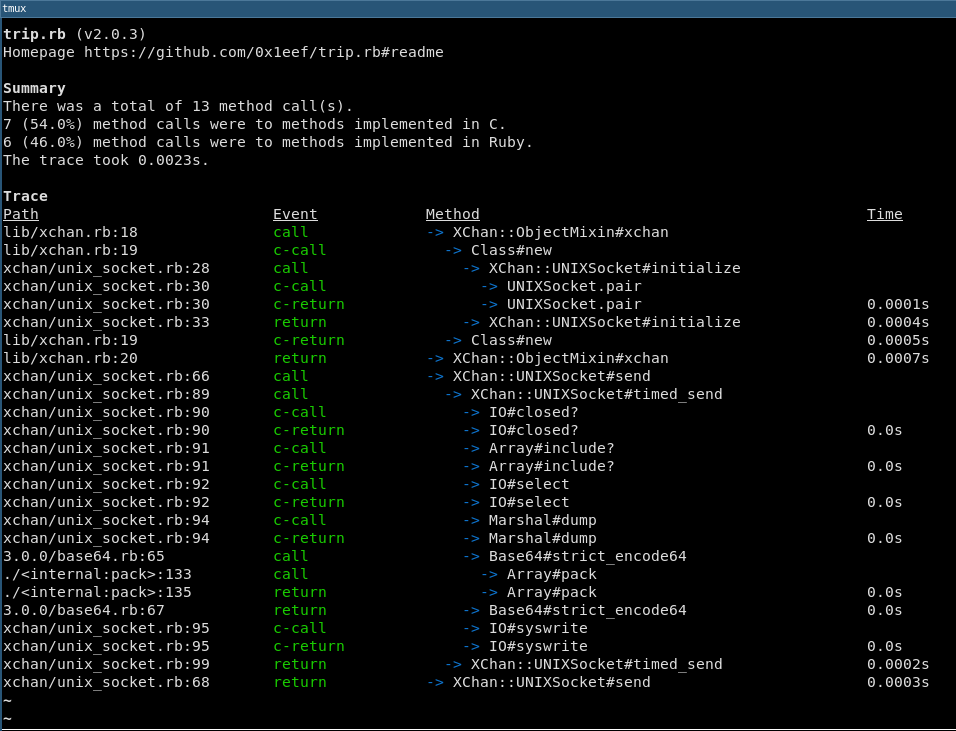
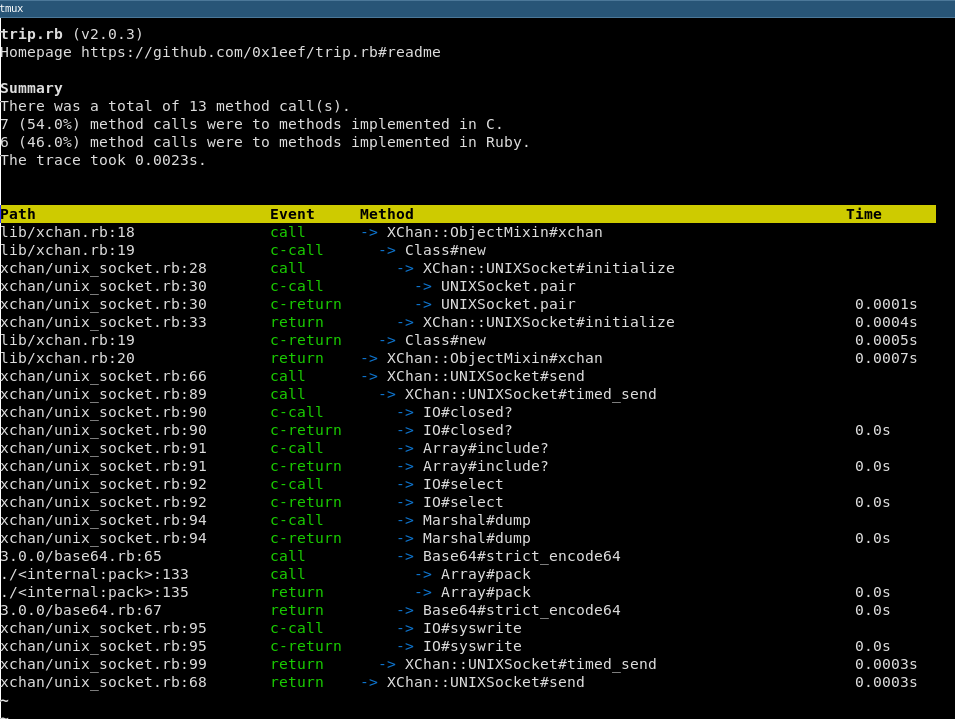
improve trace analysis appearance

diff --git a/lib/trip/analyzer/printer.rb b/lib/trip/analyzer/printer.rb
@@ -7,26 +7,24 @@ module Trip::Analyzer::Printer
   end
 
   def print_header_row(precision)
-    print Paint["Path", :underline].ljust(38),
-          Paint["Event", :underline].ljust(25),
-          Paint["Method", :underline].ljust(53 + precision),
-          Paint["Time", :underline]
+    print Paint["Path".ljust(30), :bold, :black, :yellow],
+          Paint["Event".ljust(10), :bold, :black, :yellow],
+          Paint["Method".ljust(50 + precision), :bold, :black, :yellow],
+          Paint["Time".ljust(10), :bold, :black, :yellow]
   end
 
   def print_trace(stringio, precision)
-    print "\n",
-          Paint["Trace", :bold],
-          "\n"
+    print "\n\n"
     print_header_row(precision)
     print "\n", stringio.string
   end
 
   def print_event(io, event, indent_by, duration, precision)
     io.print event_path(event).ljust(30),
-            Paint[event.name, :green].ljust(24),
+            Paint[event.name.ljust(8), :green],
              " " * indent_by,
              Paint["-> ", :blue],
-             event.signature.ljust((44 + precision) - indent_by),
+             event.signature.ljust((49 + precision) - indent_by),
              duration ? "#{duration.round(precision)}s" : '',
              "\n"
   end
